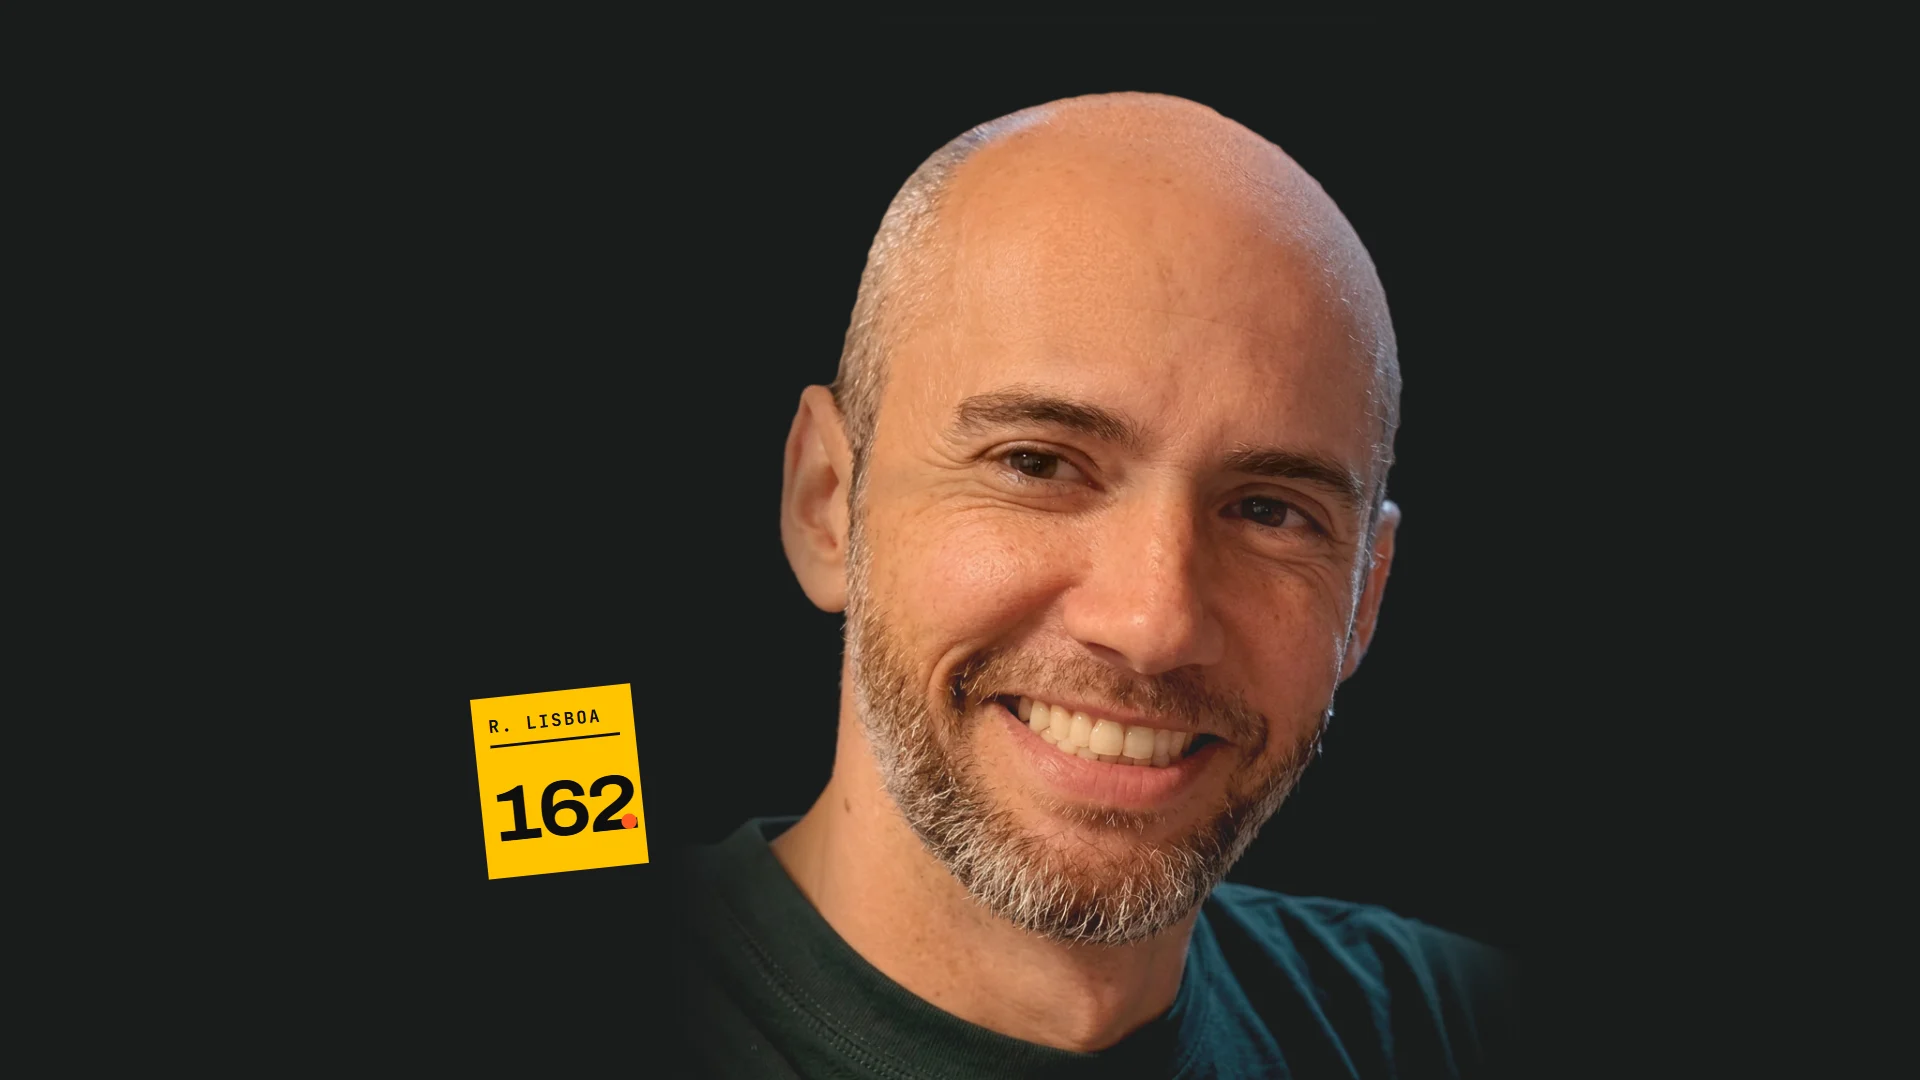
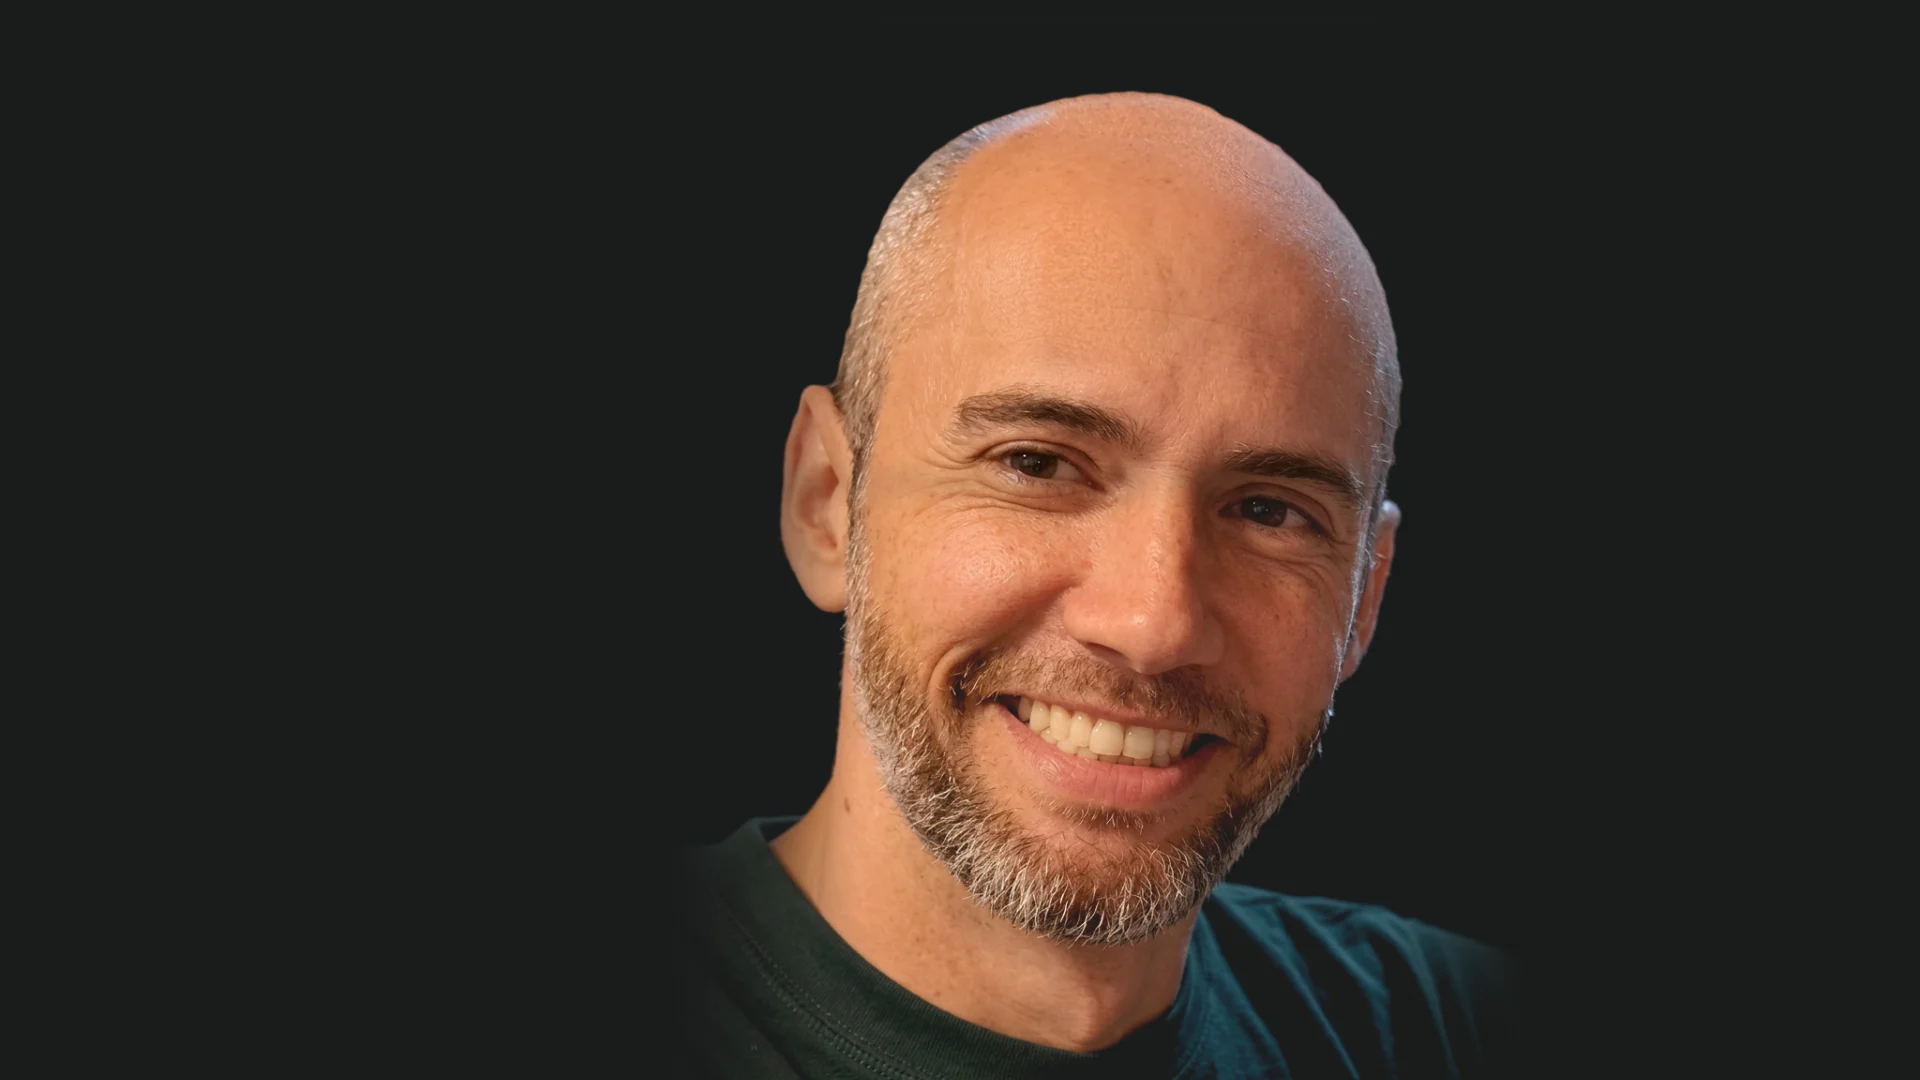
Sobre (desktop): sticker Rafa do Contato, menor, no lugar do 162 embutido na foto

Changed region(s): [[0.2188, 0.6111, 0.3438, 0.825]]

diff --git a/app/(site)/sobre/page.tsx b/app/(site)/sobre/page.tsx
@@ -3,7 +3,7 @@ import { site } from "@/site.config";
 import { HeadlineRotator } from "@/components/ui/HeadlineRotator";
 import { TextoRevelar, type Segmento } from "@/components/motion/TextoRevelar";
 import { RetratoFixo } from "@/components/motion/RetratoFixo";
-import { Cruz, SeloAneis, SeloRegua, Sticker162 } from "@/components/ui/IdvElementos";
+import { Cruz, SeloAneis, SeloRegua, Sticker162, StickerRafa } from "@/components/ui/IdvElementos";
 import { AneisAnimados } from "@/components/motion/AneisAnimados";
 
 const PARAGRAFOS: Segmento[][] = [
@@ -85,6 +85,9 @@ export default function SobrePage() {
             Designer e diretor de criação
           </p>
         </div>
+
+        {/* Sticker Rafa, o mesmo do Contato (menor), ao lado do rosto. */}
+        <StickerRafa className="absolute left-[26%] top-[66%] z-10 h-20 w-auto lg:h-24" />
 
         {/* Relógio na extremidade direita, metade para fora da tela, girando devagar. */}
         <div className="pointer-events-none absolute right-0 top-[30%] h-40 w-40 translate-x-1/2 md:h-56 md:w-56 lg:h-72 lg:w-72">
